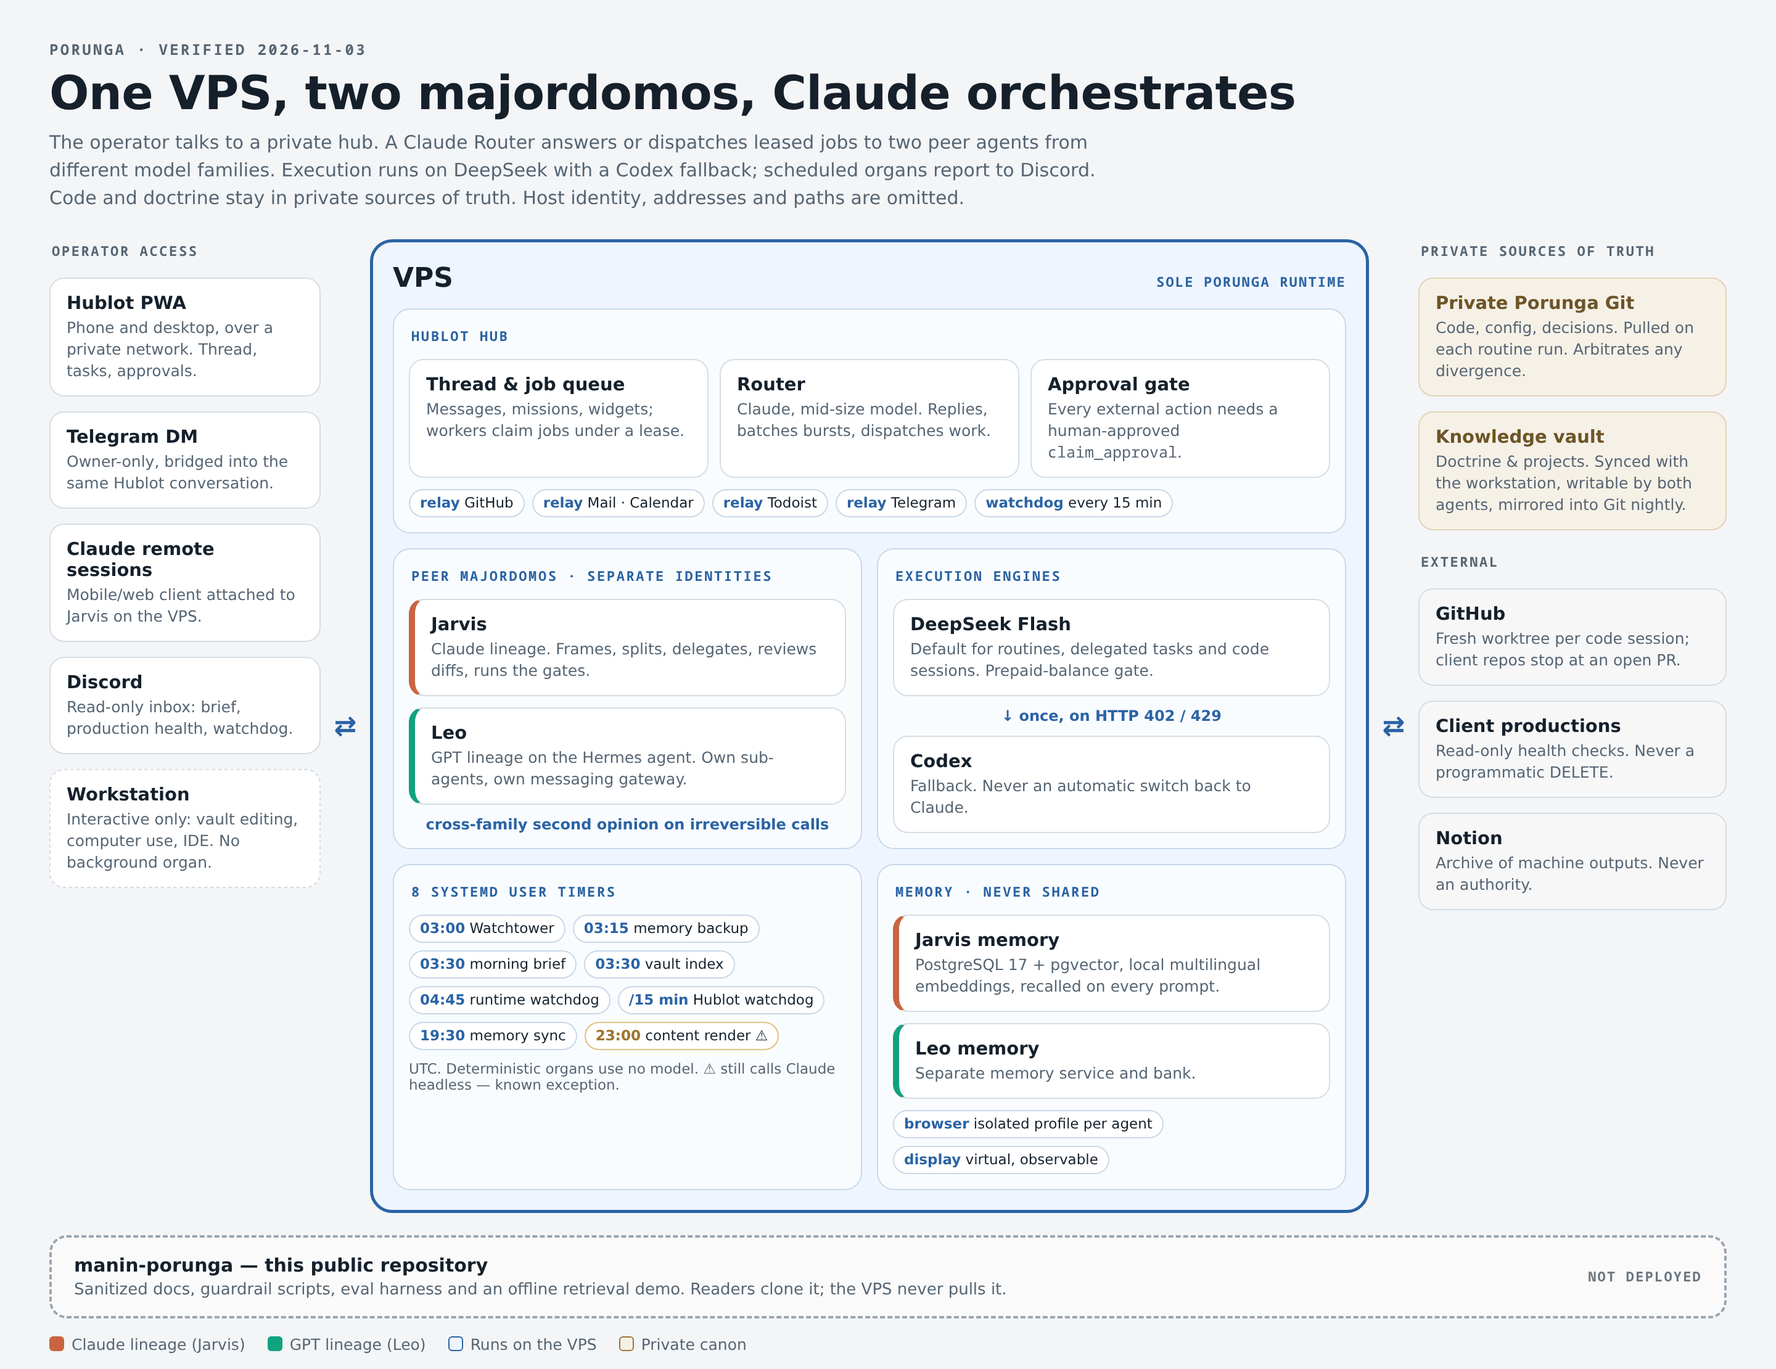
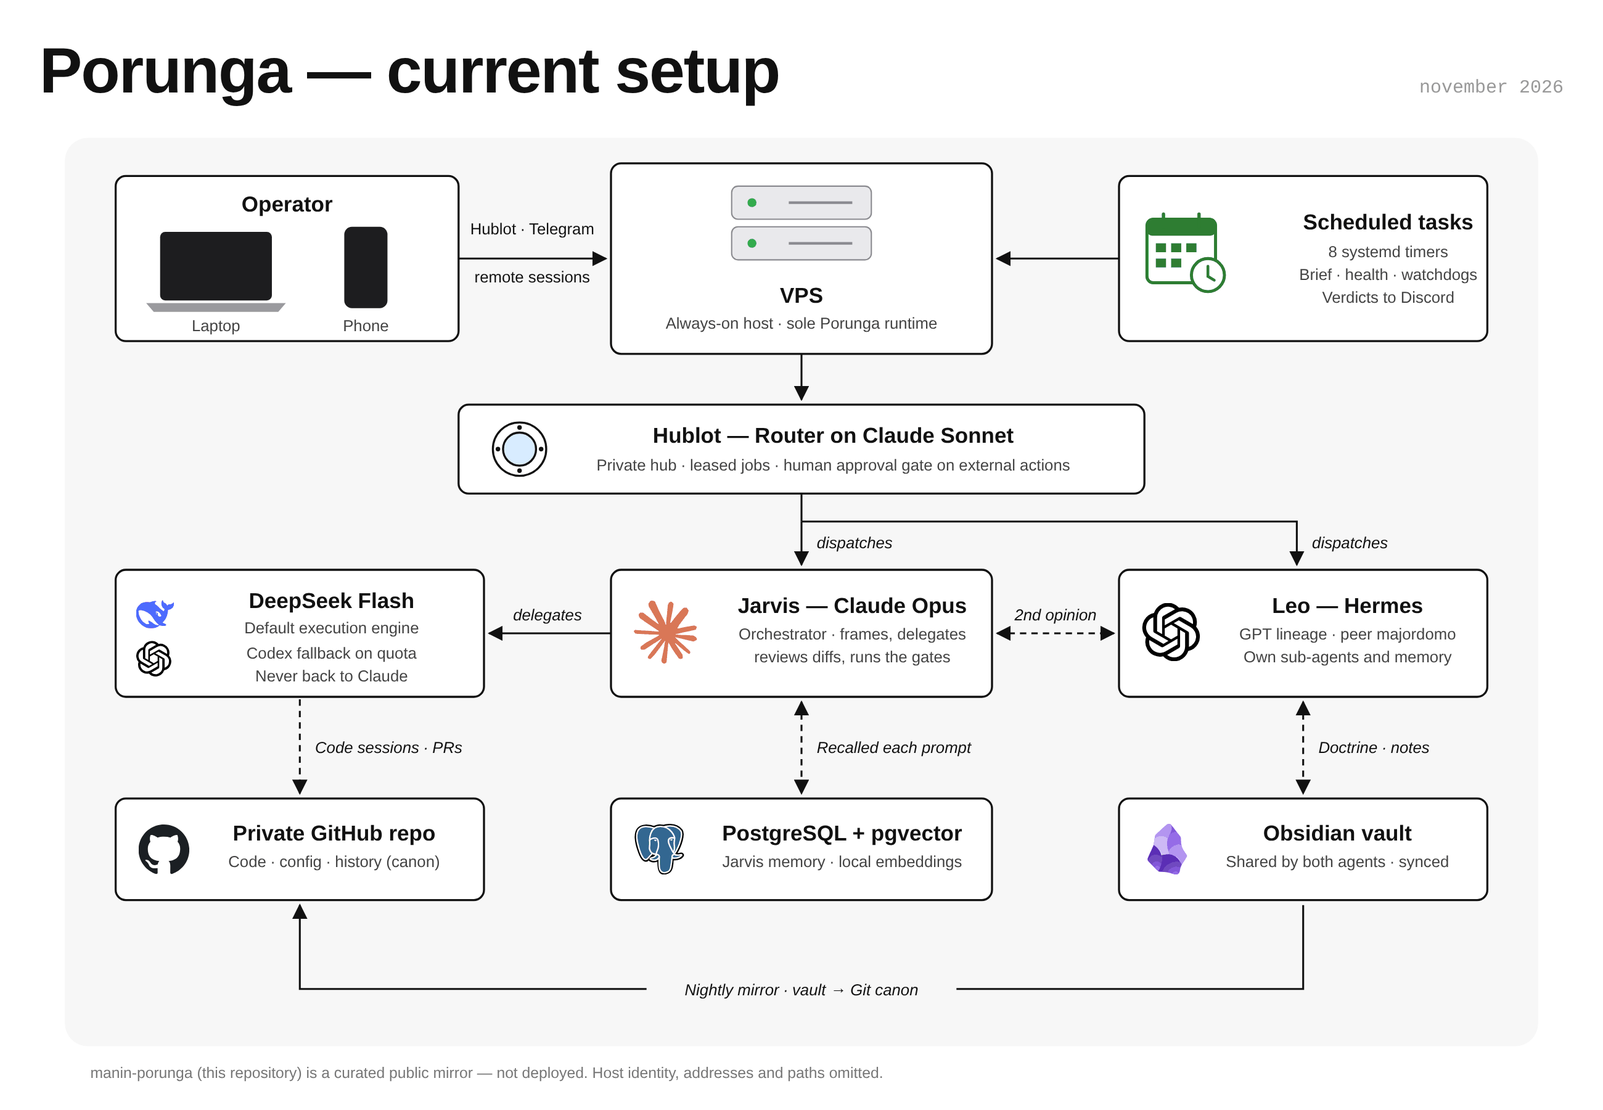
docs(assets): redraw architecture map as a clean flow diagram

diff --git a/docs/assets/setup-map.html b/docs/assets/setup-map.html
@@ -3,170 +3,172 @@
 <head>
   <meta charset="utf-8">
   <meta name="viewport" content="width=device-width, initial-scale=1">
-  <title>Porunga architecture map</title>
+  <title>Porunga current setup</title>
   <style>
-    :root {
-      --bg: #f3f5f7; --card: #ffffff; --ink: #15202b; --muted: #566573; --line: #d5dde5;
-      --vps: #eef5ff; --vps-line: #2a63a4; --accent: #2a63a4;
-      --jarvis: #c96442; --leo: #10a37f; --canon: #f6f1e7; --canon-line: #a7864a;
-      --ext: #f7f7f8; --warn: #9a6b00;
-      font-family: Inter, ui-sans-serif, system-ui, -apple-system, "Segoe UI", sans-serif;
-    }
+    :root { --ink: #111; --muted: #444; --panel: #f7f7f7; --bg: #fff; }
     * { box-sizing: border-box; }
-    body { margin: 0; padding: 32px; background: var(--bg); color: var(--ink); }
-    main { max-width: 1360px; margin: 0 auto; }
-    header { margin-bottom: 22px; }
-    .eyebrow { font: 700 12px ui-monospace, SFMono-Regular, Menlo, monospace; letter-spacing: .14em; text-transform: uppercase; color: var(--muted); }
-    h1 { margin: 6px 0 8px; font-size: clamp(26px, 3.4vw, 38px); line-height: 1.1; letter-spacing: -.01em; }
-    header p { margin: 0; max-width: 860px; color: var(--muted); font-size: 15px; line-height: 1.5; }
-
-    .map { display: grid; grid-template-columns: 220px 40px 1fr 40px 250px; align-items: stretch; }
-    .col { display: flex; flex-direction: column; gap: 12px; }
-    .arrow { display: flex; align-items: center; justify-content: center; color: var(--accent); font-size: 22px; font-weight: 700; }
-    .arrow.both::before { content: "⇄"; } .arrow.right::before { content: "→"; }
-
-    .lane-title { font: 700 11px ui-monospace, monospace; letter-spacing: .12em; text-transform: uppercase; color: var(--muted); margin: 2px 0 2px 2px; }
-    .card { background: var(--card); border: 1px solid var(--line); border-radius: 12px; padding: 11px 13px; }
-    .card h3 { margin: 0 0 3px; font-size: 14.5px; }
-    .card p { margin: 0; font-size: 12.5px; line-height: 1.4; color: var(--muted); }
-    .card.dashed { border-style: dashed; }
-
-    .vps { background: var(--vps); border: 2.5px solid var(--vps-line); border-radius: 18px; padding: 16px; display: grid; grid-template-columns: 1fr 1fr; gap: 12px; }
-    .vps > .head { grid-column: 1 / -1; display: flex; justify-content: space-between; align-items: baseline; }
-    .vps > .head h2 { margin: 0; font-size: 22px; }
-    .vps > .head span { font: 700 11px ui-monospace, monospace; letter-spacing: .1em; color: var(--accent); text-transform: uppercase; }
-    .group { background: rgba(255,255,255,.65); border: 1px solid #c9d8ea; border-radius: 14px; padding: 12px; display: flex; flex-direction: column; gap: 9px; }
-    .group.full { grid-column: 1 / -1; }
-    .group > .lane-title { color: var(--accent); }
-    .row { display: grid; gap: 9px; }
-    .row.two { grid-template-columns: 1fr 1fr; } .row.three { grid-template-columns: 1fr 1fr 1fr; }
-    .agent-j { border-left: 5px solid var(--jarvis); }
-    .agent-l { border-left: 5px solid var(--leo); }
-    .flow { font-size: 12px; color: var(--accent); font-weight: 600; text-align: center; }
-    .chips { display: flex; flex-wrap: wrap; gap: 6px; }
-    .chip { font-size: 11.5px; padding: 4px 8px; border-radius: 999px; background: #fff; border: 1px solid #c9d8ea; color: var(--ink); white-space: nowrap; }
-    .chip b { color: var(--accent); font-weight: 700; }
-    .chip.warn { border-color: #e2c27a; }
-    .chip.warn b { color: var(--warn); }
-
-    .canon { background: var(--canon); border-color: #e3d4b5; }
-    .canon h3 { color: #6e5526; }
-    .ext { background: var(--ext); }
-
-    .public { margin-top: 18px; display: grid; grid-template-columns: 1fr auto; gap: 16px; align-items: center; background: #fafafa; border: 2px dashed #9aa5af; border-radius: 14px; padding: 14px 18px; }
-    .public h3 { margin: 0 0 3px; font-size: 15px; } .public p { margin: 0; font-size: 13px; color: var(--muted); }
-    .public .tag { font: 700 11px ui-monospace, monospace; letter-spacing: .1em; color: #6b7680; text-transform: uppercase; white-space: nowrap; }
-
-    .legend { margin-top: 14px; display: flex; flex-wrap: wrap; gap: 18px; font-size: 12.5px; color: var(--muted); }
-    .legend i { display: inline-block; width: 12px; height: 12px; border-radius: 3px; vertical-align: -1px; margin-right: 6px; }
-    footer { margin-top: 12px; font-size: 12px; color: var(--muted); }
-
-    @media (max-width: 980px) {
-      body { padding: 16px; }
-      .map { grid-template-columns: 1fr; gap: 10px; }
-      .arrow { transform: rotate(90deg); height: 26px; }
-      .vps { grid-template-columns: 1fr; }
-      .row.two, .row.three { grid-template-columns: 1fr; }
-      .public { grid-template-columns: 1fr; }
-    }
+    body { margin: 0; padding: 28px 32px; background: var(--bg); color: var(--ink);
+           font-family: "Helvetica Neue", Helvetica, Arial, sans-serif; }
+    main { max-width: 1240px; margin: 0 auto; }
+    header { display: flex; justify-content: space-between; align-items: baseline; gap: 16px; margin-bottom: 14px; }
+    h1 { margin: 0; font-size: clamp(28px, 4.4vw, 52px); font-weight: 800; letter-spacing: -.02em; }
+    .date { font: 15px ui-monospace, "Courier New", monospace; color: #999; white-space: nowrap; }
+    svg { display: block; width: 100%; height: auto; }
+    .panel { fill: var(--panel); }
+    .box { fill: #fff; stroke: var(--ink); stroke-width: 1.6; }
+    .t { font-size: 17px; font-weight: 700; fill: var(--ink); }
+    .s { font-size: 12.5px; fill: var(--muted); }
+    .lbl { font-size: 12.5px; fill: var(--ink); }
+    .it { font-size: 12.5px; font-style: italic; fill: var(--ink); }
+    .ln { stroke: var(--ink); stroke-width: 1.5; fill: none; }
+    .dash { stroke-dasharray: 5 4; }
+    .ic { fill: none; stroke: var(--ink); stroke-width: 1.6; }
+    .foot { font-size: 12px; fill: #777; }
+    @media (max-width: 600px) { body { padding: 16px; } }
   </style>
 </head>
 <body>
 <main>
   <header>
-    <div class="eyebrow">Porunga · verified 2026-11-03</div>
-    <h1>One VPS, two majordomos, Claude orchestrates</h1>
-    <p>The operator talks to a private hub. A Claude Router answers or dispatches leased jobs to two peer agents
-      from different model families. Execution runs on DeepSeek with a Codex fallback; scheduled organs report to
-      Discord. Code and doctrine stay in private sources of truth. Host identity, addresses and paths are omitted.</p>
+    <h1>Porunga — current setup</h1>
+    <span class="date">november 2026</span>
   </header>
 
-  <div class="map">
-    <!-- Operator -->
-    <div class="col">
-      <div class="lane-title">Operator access</div>
-      <div class="card"><h3>Hublot PWA</h3><p>Phone and desktop, over a private network. Thread, tasks, approvals.</p></div>
-      <div class="card"><h3>Telegram DM</h3><p>Owner-only, bridged into the same Hublot conversation.</p></div>
-      <div class="card"><h3>Claude remote sessions</h3><p>Mobile/web client attached to Jarvis on the VPS.</p></div>
-      <div class="card"><h3>Discord</h3><p>Read-only inbox: brief, production health, watchdog.</p></div>
-      <div class="card dashed"><h3>Workstation</h3><p>Interactive only: vault editing, computer use, IDE. No background organ.</p></div>
-    </div>
+  <svg viewBox="0 0 1200 760" role="img" aria-labelledby="t d">
+    <title id="t">Porunga current setup</title>
+    <desc id="d">The operator reaches an always-on VPS through Hublot, Telegram or remote sessions. Scheduled systemd timers also run there. Hublot's Claude Router dispatches leased jobs to two peer agents, Jarvis (Claude) and Leo (Hermes, GPT lineage). Jarvis delegates execution to DeepSeek Flash with a Codex fallback. Code lives in a private GitHub repository, Jarvis memory in PostgreSQL with pgvector, doctrine in an Obsidian vault shared by both agents and mirrored nightly into Git.</desc>
+    <defs>
+      <marker id="a" viewBox="0 0 10 10" refX="9" refY="5" markerWidth="8" markerHeight="8" orient="auto-start-reverse">
+        <path d="M0 0 L10 5 L0 10 z" fill="#111"/>
+      </marker>
+    </defs>
 
-    <div class="arrow both" aria-hidden="true"></div>
+    <rect class="panel" x="20" y="10" width="1160" height="715" rx="18"/>
+
+    <!-- ===== Row 1 ===== -->
+    <!-- Operator -->
+    <rect class="box" x="60" y="40" width="270" height="130" rx="8"/>
+    <text class="t" x="195" y="68" text-anchor="middle">Operator</text>
+    <!-- laptop -->
+    <rect x="95" y="84" width="88" height="54" rx="4" fill="#1d1d1f"/>
+    <path d="M84 140 h110 l-6 7 h-98 z" fill="#9a9a9e"/>
+    <text class="s" x="139" y="162" text-anchor="middle">Laptop</text>
+    <!-- phone -->
+    <rect x="240" y="80" width="34" height="64" rx="6" fill="#1d1d1f"/>
+    <text class="s" x="257" y="162" text-anchor="middle">Phone</text>
 
     <!-- VPS -->
-    <section class="vps" aria-label="VPS runtime">
-      <div class="head"><h2>VPS</h2><span>sole Porunga runtime</span></div>
+    <rect class="box" x="450" y="30" width="300" height="150" rx="8"/>
+    <rect x="545" y="48" width="110" height="26" rx="5" fill="#e9e9ec" stroke="#8a8a90"/>
+    <rect x="545" y="80" width="110" height="26" rx="5" fill="#e9e9ec" stroke="#8a8a90"/>
+    <circle cx="561" cy="61" r="3.5" fill="#2bb24c"/><circle cx="561" cy="93" r="3.5" fill="#2bb24c"/>
+    <path d="M590 61 h50 M590 93 h50" stroke="#8a8a90" stroke-width="2"/>
+    <text class="t" x="600" y="140" text-anchor="middle">VPS</text>
+    <text class="s" x="600" y="160" text-anchor="middle">Always-on host · sole Porunga runtime</text>
 
-      <div class="group full">
-        <div class="lane-title">Hublot hub</div>
-        <div class="row three">
-          <div class="card"><h3>Thread &amp; job queue</h3><p>Messages, missions, widgets; workers claim jobs under a lease.</p></div>
-          <div class="card"><h3>Router</h3><p>Claude, mid-size model. Replies, batches bursts, dispatches work.</p></div>
-          <div class="card"><h3>Approval gate</h3><p>Every external action needs a human-approved <code>claim_approval</code>.</p></div>
-        </div>
-        <div class="chips"><span class="chip"><b>relay</b> GitHub</span><span class="chip"><b>relay</b> Mail · Calendar</span><span class="chip"><b>relay</b> Todoist</span><span class="chip"><b>relay</b> Telegram</span><span class="chip"><b>watchdog</b> every 15 min</span></div>
-      </div>
+    <!-- Scheduled tasks -->
+    <rect class="box" x="850" y="40" width="290" height="130" rx="8"/>
+    <g transform="translate(872,70)">
+      <rect x="0" y="4" width="54" height="50" rx="5" fill="#fff" stroke="#2e7d32" stroke-width="2.4"/>
+      <rect x="0" y="4" width="54" height="13" rx="4" fill="#2e7d32"/>
+      <path d="M13 0 v10 M41 0 v10" stroke="#2e7d32" stroke-width="2.6" stroke-linecap="round"/>
+      <g fill="#2e7d32"><rect x="7" y="23" width="8" height="7"/><rect x="19" y="23" width="8" height="7"/><rect x="31" y="23" width="8" height="7"/><rect x="7" y="35" width="8" height="7"/><rect x="19" y="35" width="8" height="7"/></g>
+      <circle cx="48" cy="48" r="13" fill="#fff" stroke="#2e7d32" stroke-width="2.4"/>
+      <path d="M48 41 v8 l5 3" stroke="#2e7d32" stroke-width="2.2" fill="none" stroke-linecap="round"/>
+    </g>
+    <text class="t" x="1062" y="82" text-anchor="middle">Scheduled tasks</text>
+    <text class="s" x="1062" y="104" text-anchor="middle">8 systemd timers</text>
+    <text class="s" x="1062" y="122" text-anchor="middle">Brief · health · watchdogs</text>
+    <text class="s" x="1062" y="140" text-anchor="middle">Verdicts to Discord</text>
 
-      <div class="group">
-        <div class="lane-title">Peer majordomos · separate identities</div>
-        <div class="card agent-j"><h3>Jarvis</h3><p>Claude lineage. Frames, splits, delegates, reviews diffs, runs the gates.</p></div>
-        <div class="card agent-l"><h3>Leo</h3><p>GPT lineage on the Hermes agent. Own sub-agents, own messaging gateway.</p></div>
-        <div class="flow">cross-family second opinion on irreversible calls</div>
-      </div>
+    <!-- row 1 arrows -->
+    <line class="ln" x1="330" y1="105" x2="446" y2="105" marker-end="url(#a)"/>
+    <text class="lbl" x="388" y="86" text-anchor="middle">Hublot · Telegram</text>
+    <text class="lbl" x="388" y="124" text-anchor="middle">remote sessions</text>
+    <line class="ln" x1="850" y1="105" x2="754" y2="105" marker-end="url(#a)"/>
 
-      <div class="group">
-        <div class="lane-title">Execution engines</div>
-        <div class="card"><h3>DeepSeek Flash</h3><p>Default for routines, delegated tasks and code sessions. Prepaid-balance gate.</p></div>
-        <div class="flow">↓ once, on HTTP 402 / 429</div>
-        <div class="card"><h3>Codex</h3><p>Fallback. Never an automatic switch back to Claude.</p></div>
-      </div>
+    <!-- ===== Row 2: Hublot ===== -->
+    <line class="ln" x1="600" y1="180" x2="600" y2="216" marker-end="url(#a)"/>
+    <rect class="box" x="330" y="220" width="540" height="70" rx="8"/>
+    <g transform="translate(378,255)">
+      <circle r="21" class="ic" stroke-width="3"/>
+      <circle r="13" fill="#d8ecff" stroke="#111" stroke-width="1.6"/>
+      <g fill="#111"><circle cx="0" cy="-17" r="1.8"/><circle cx="17" cy="0" r="1.8"/><circle cx="0" cy="17" r="1.8"/><circle cx="-17" cy="0" r="1.8"/></g>
+    </g>
+    <text class="t" x="625" y="250" text-anchor="middle">Hublot — Router on Claude Sonnet</text>
+    <text class="s" x="625" y="272" text-anchor="middle">Private hub · leased jobs · human approval gate on external actions</text>
 
-      <div class="group">
-        <div class="lane-title">8 systemd user timers</div>
-        <div class="chips">
-          <span class="chip"><b>03:00</b> Watchtower</span><span class="chip"><b>03:15</b> memory backup</span>
-          <span class="chip"><b>03:30</b> morning brief</span><span class="chip"><b>03:30</b> vault index</span>
-          <span class="chip"><b>04:45</b> runtime watchdog</span><span class="chip"><b>/15 min</b> Hublot watchdog</span>
-          <span class="chip"><b>19:30</b> memory sync</span><span class="chip warn"><b>23:00</b> content render ⚠</span>
-        </div>
-        <p style="margin:0;font-size:11.5px;color:var(--muted)">UTC. Deterministic organs use no model. ⚠ still calls Claude headless — known exception.</p>
-      </div>
+    <!-- split -->
+    <path class="ln" d="M600 290 V312"/>
+    <path class="ln" d="M600 312 H990 V346" marker-end="url(#a)"/>
+    <line class="ln" x1="600" y1="312" x2="600" y2="346" marker-end="url(#a)"/>
+    <text class="it" x="612" y="333">dispatches</text>
+    <text class="it" x="1002" y="333">dispatches</text>
 
-      <div class="group">
-        <div class="lane-title">Memory · never shared</div>
-        <div class="card agent-j"><h3>Jarvis memory</h3><p>PostgreSQL 17 + pgvector, local multilingual embeddings, recalled on every prompt.</p></div>
-        <div class="card agent-l"><h3>Leo memory</h3><p>Separate memory service and bank.</p></div>
-        <div class="chips"><span class="chip"><b>browser</b> isolated profile per agent</span><span class="chip"><b>display</b> virtual, observable</span></div>
-      </div>
-    </section>
+    <!-- ===== Row 3 ===== -->
+    <!-- Engines -->
+    <rect class="box" x="60" y="350" width="290" height="100" rx="8"/>
+    <image href="https://cdn.jsdelivr.net/gh/homarr-labs/dashboard-icons/svg/deepseek.svg" x="76" y="370" width="30" height="30"/>
+    <image href="https://cdn.jsdelivr.net/gh/homarr-labs/dashboard-icons/svg/openai.svg" x="76" y="406" width="28" height="28"/>
+    <text class="t" x="230" y="380" text-anchor="middle">DeepSeek Flash</text>
+    <text class="s" x="230" y="400" text-anchor="middle">Default execution engine</text>
+    <text class="s" x="230" y="420" text-anchor="middle">Codex fallback on quota</text>
+    <text class="s" x="230" y="438" text-anchor="middle">Never back to Claude</text>
 
-    <div class="arrow both" aria-hidden="true"></div>
+    <!-- Jarvis -->
+    <rect class="box" x="450" y="350" width="300" height="100" rx="8"/>
+    <image href="https://cdn.jsdelivr.net/gh/homarr-labs/dashboard-icons/svg/claude-ai.svg" x="468" y="374" width="50" height="50"/>
+    <text class="t" x="640" y="384" text-anchor="middle">Jarvis — Claude Opus</text>
+    <text class="s" x="640" y="405" text-anchor="middle">Orchestrator · frames, delegates</text>
+    <text class="s" x="640" y="423" text-anchor="middle">reviews diffs, runs the gates</text>
 
-    <!-- Canon & external -->
-    <div class="col">
-      <div class="lane-title">Private sources of truth</div>
-      <div class="card canon"><h3>Private Porunga Git</h3><p>Code, config, decisions. Pulled on each routine run. Arbitrates any divergence.</p></div>
-      <div class="card canon"><h3>Knowledge vault</h3><p>Doctrine &amp; projects. Synced with the workstation, writable by both agents, mirrored into Git nightly.</p></div>
-      <div class="lane-title" style="margin-top:6px">External</div>
-      <div class="card ext"><h3>GitHub</h3><p>Fresh worktree per code session; client repos stop at an open PR.</p></div>
-      <div class="card ext"><h3>Client productions</h3><p>Read-only health checks. Never a programmatic DELETE.</p></div>
-      <div class="card ext"><h3>Notion</h3><p>Archive of machine outputs. Never an authority.</p></div>
-    </div>
-  </div>
+    <!-- Leo -->
+    <rect class="box" x="850" y="350" width="290" height="100" rx="8"/>
+    <image href="https://cdn.jsdelivr.net/gh/homarr-labs/dashboard-icons/svg/openai.svg" x="868" y="376" width="46" height="46"/>
+    <text class="t" x="1030" y="384" text-anchor="middle">Leo — Hermes</text>
+    <text class="s" x="1030" y="405" text-anchor="middle">GPT lineage · peer majordomo</text>
+    <text class="s" x="1030" y="423" text-anchor="middle">Own sub-agents and memory</text>
 
-  <div class="public">
-    <div><h3>manin-porunga — this public repository</h3><p>Sanitized docs, guardrail scripts, eval harness and an offline retrieval demo. Readers clone it; the VPS never pulls it.</p></div>
-    <div class="tag">not deployed</div>
-  </div>
+    <!-- row 3 arrows -->
+    <line class="ln" x1="450" y1="400" x2="354" y2="400" marker-end="url(#a)"/>
+    <text class="it" x="400" y="390" text-anchor="middle">delegates</text>
+    <line class="ln dash" x1="754" y1="400" x2="846" y2="400" marker-start="url(#a)" marker-end="url(#a)"/>
+    <text class="it" x="800" y="390" text-anchor="middle">2nd opinion</text>
 
-  <div class="legend">
-    <span><i style="background:var(--jarvis)"></i>Claude lineage (Jarvis)</span>
-    <span><i style="background:var(--leo)"></i>GPT lineage (Leo)</span>
-    <span><i style="background:var(--vps);border:1px solid var(--vps-line)"></i>Runs on the VPS</span>
-    <span><i style="background:var(--canon);border:1px solid var(--canon-line)"></i>Private canon</span>
-  </div>
-  <footer>“VPS” is the public-facing name for the runtime host. Provider, host identity, network addresses, ports, private paths and credentials are intentionally omitted.</footer>
+    <!-- vertical dashed -->
+    <line class="ln dash" x1="205" y1="452" x2="205" y2="526" marker-end="url(#a)"/>
+    <text class="it" x="217" y="494">Code sessions · PRs</text>
+    <line class="ln dash" x1="600" y1="454" x2="600" y2="526" marker-start="url(#a)" marker-end="url(#a)"/>
+    <text class="it" x="612" y="494">Recalled each prompt</text>
+    <line class="ln dash" x1="995" y1="454" x2="995" y2="526" marker-start="url(#a)" marker-end="url(#a)"/>
+    <text class="it" x="1007" y="494">Doctrine · notes</text>
+
+    <!-- ===== Row 4 ===== -->
+    <!-- GitHub -->
+    <rect class="box" x="60" y="530" width="290" height="80" rx="8"/>
+    <image href="https://cdn.jsdelivr.net/gh/homarr-labs/dashboard-icons/svg/github.svg" x="78" y="550" width="40" height="40"/>
+    <text class="t" x="232" y="563" text-anchor="middle">Private GitHub repo</text>
+    <text class="s" x="232" y="584" text-anchor="middle">Code · config · history (canon)</text>
+
+    <!-- Memory -->
+    <rect class="box" x="450" y="530" width="300" height="80" rx="8"/>
+    <image href="https://cdn.jsdelivr.net/gh/homarr-labs/dashboard-icons/svg/postgres.svg" x="468" y="550" width="40" height="40"/>
+    <text class="t" x="632" y="563" text-anchor="middle">PostgreSQL + pgvector</text>
+    <text class="s" x="632" y="584" text-anchor="middle">Jarvis memory · local embeddings</text>
+
+    <!-- Vault -->
+    <rect class="box" x="850" y="530" width="290" height="80" rx="8"/>
+    <image href="https://cdn.jsdelivr.net/gh/homarr-labs/dashboard-icons/svg/obsidian.svg" x="868" y="550" width="40" height="40"/>
+    <text class="t" x="1022" y="563" text-anchor="middle">Obsidian vault</text>
+    <text class="s" x="1022" y="584" text-anchor="middle">Shared by both agents · synced</text>
+
+    <!-- bottom loop -->
+    <path class="ln" d="M205 614 V680 H995 V614" marker-start="url(#a)"/>
+    <rect x="478" y="669" width="244" height="22" fill="#f7f7f7"/>
+    <text class="it" x="600" y="685" text-anchor="middle">Nightly mirror · vault → Git canon</text>
+
+    <text class="foot" x="40" y="750">manin-porunga (this repository) is a curated public mirror — not deployed. Host identity, addresses and paths omitted.</text>
+  </svg>
 </main>
 </body>
 </html>
